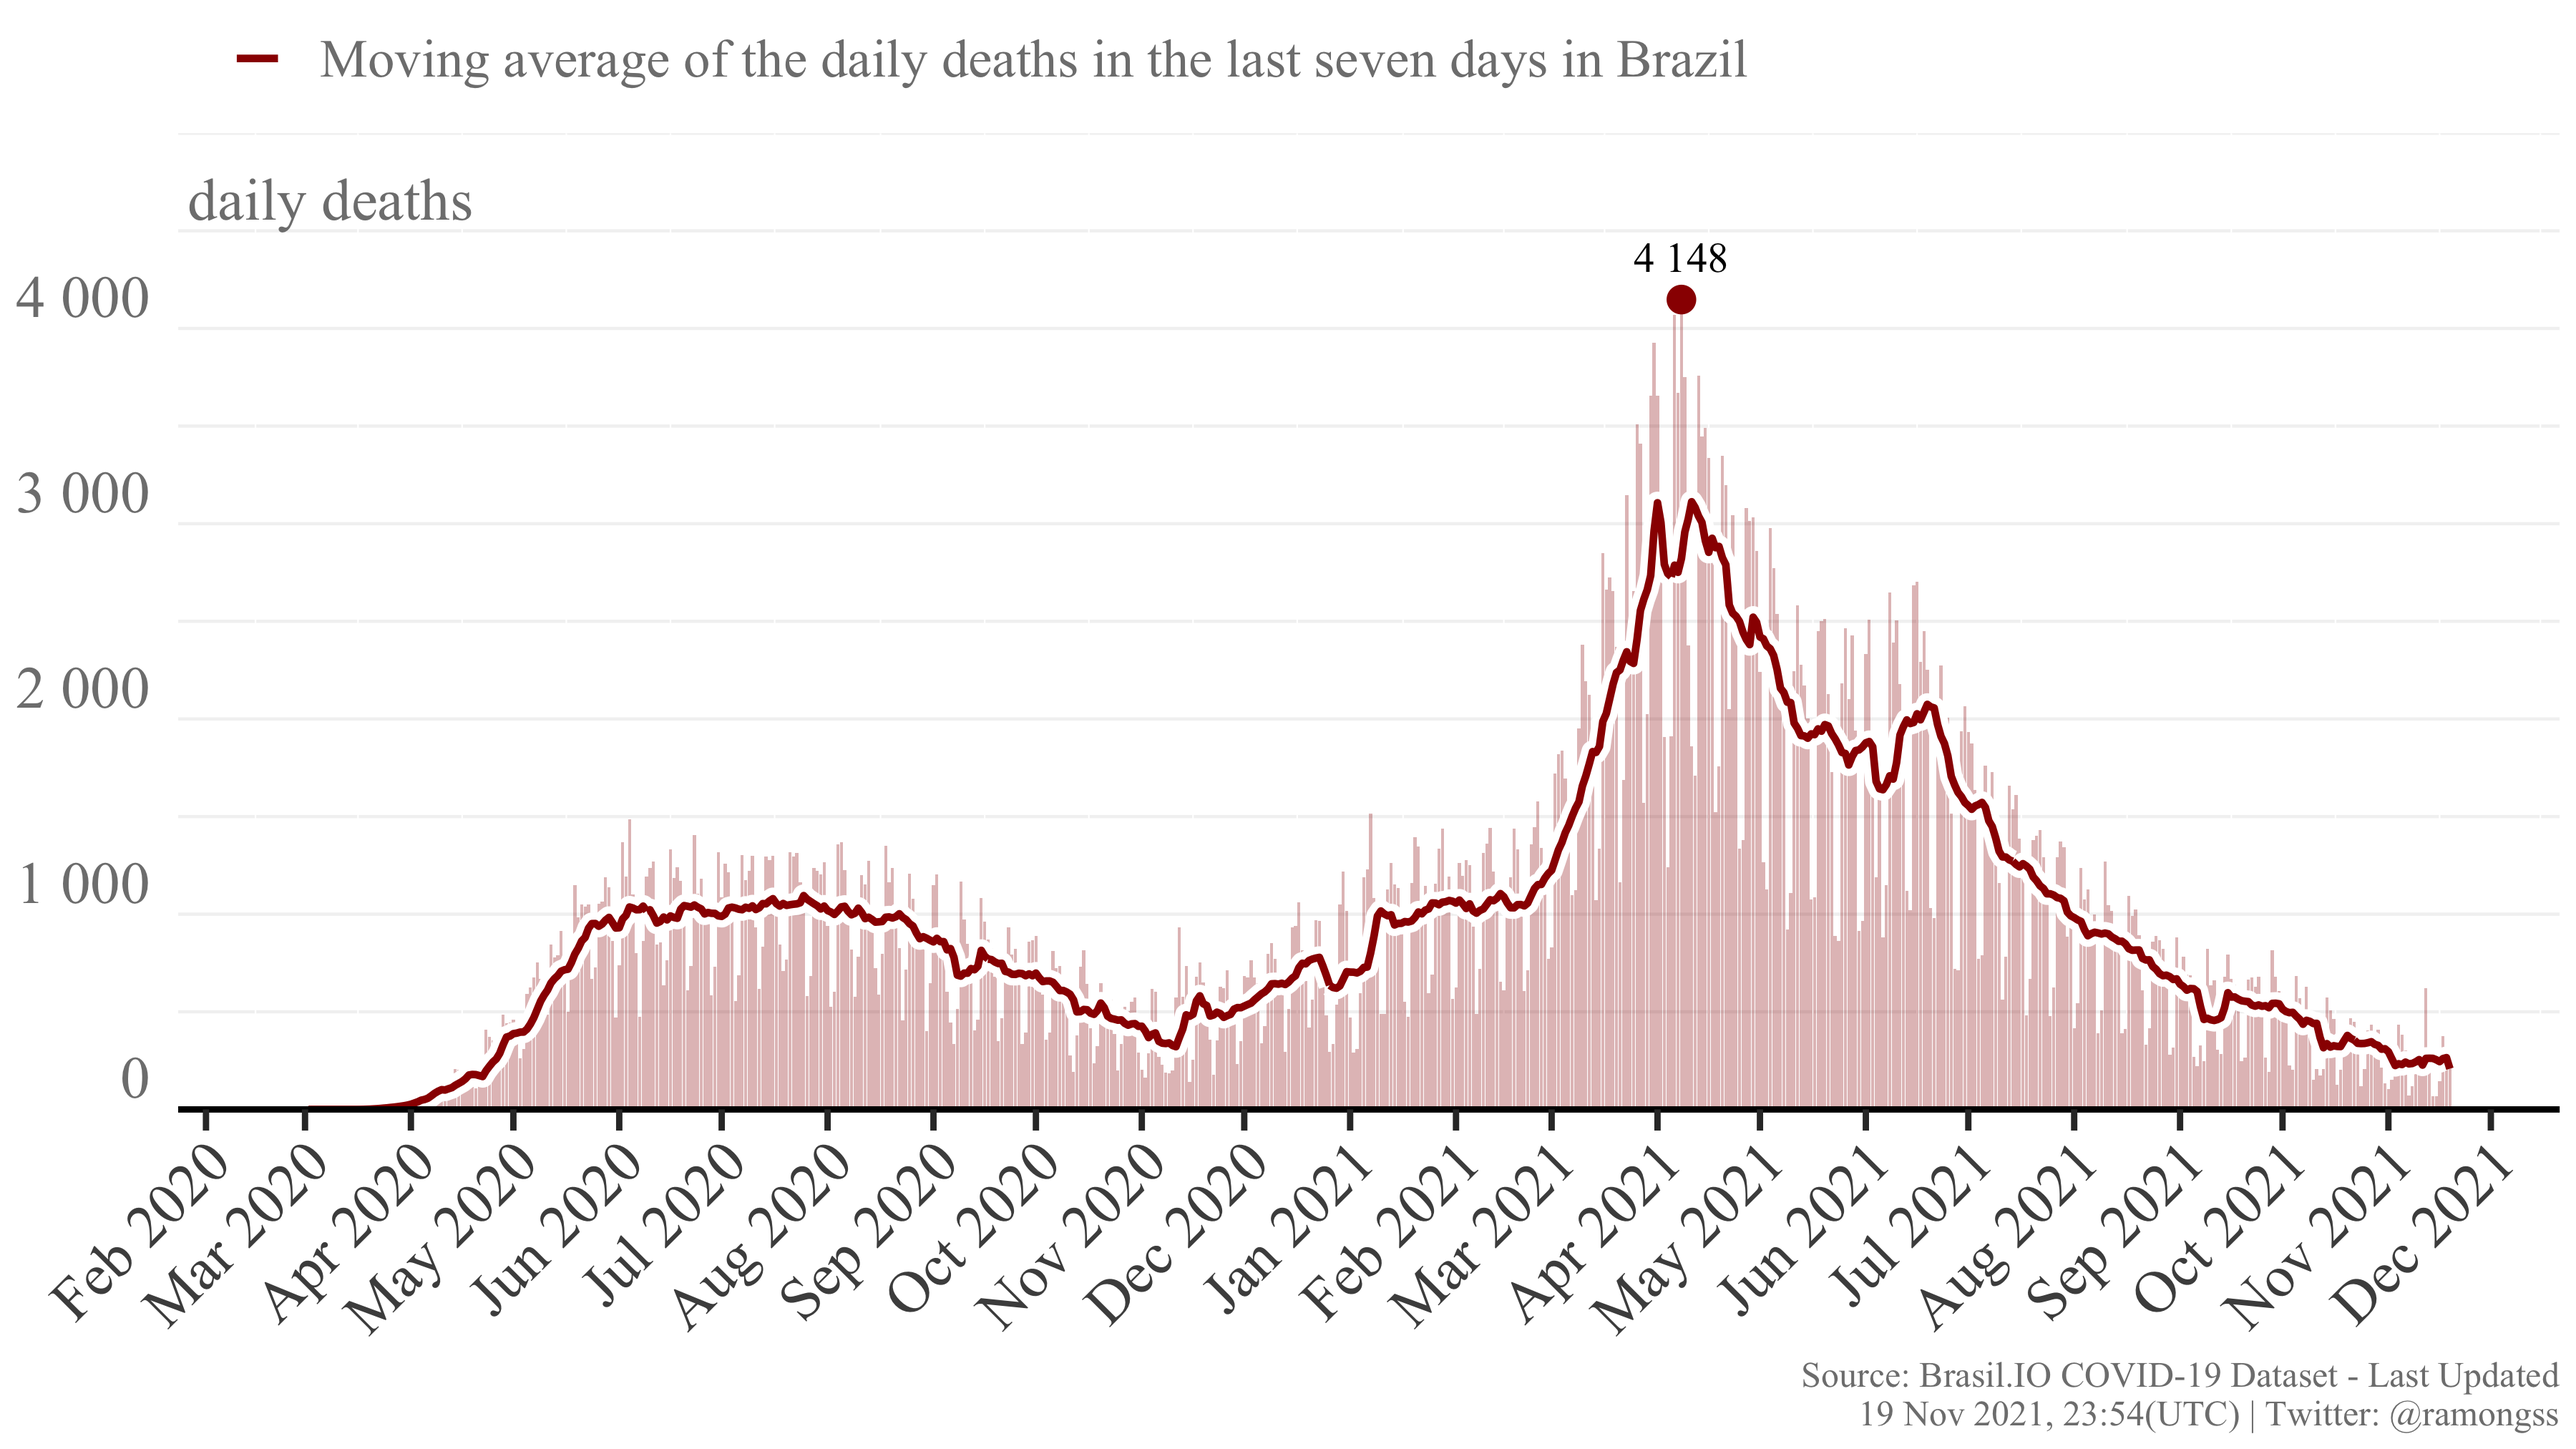
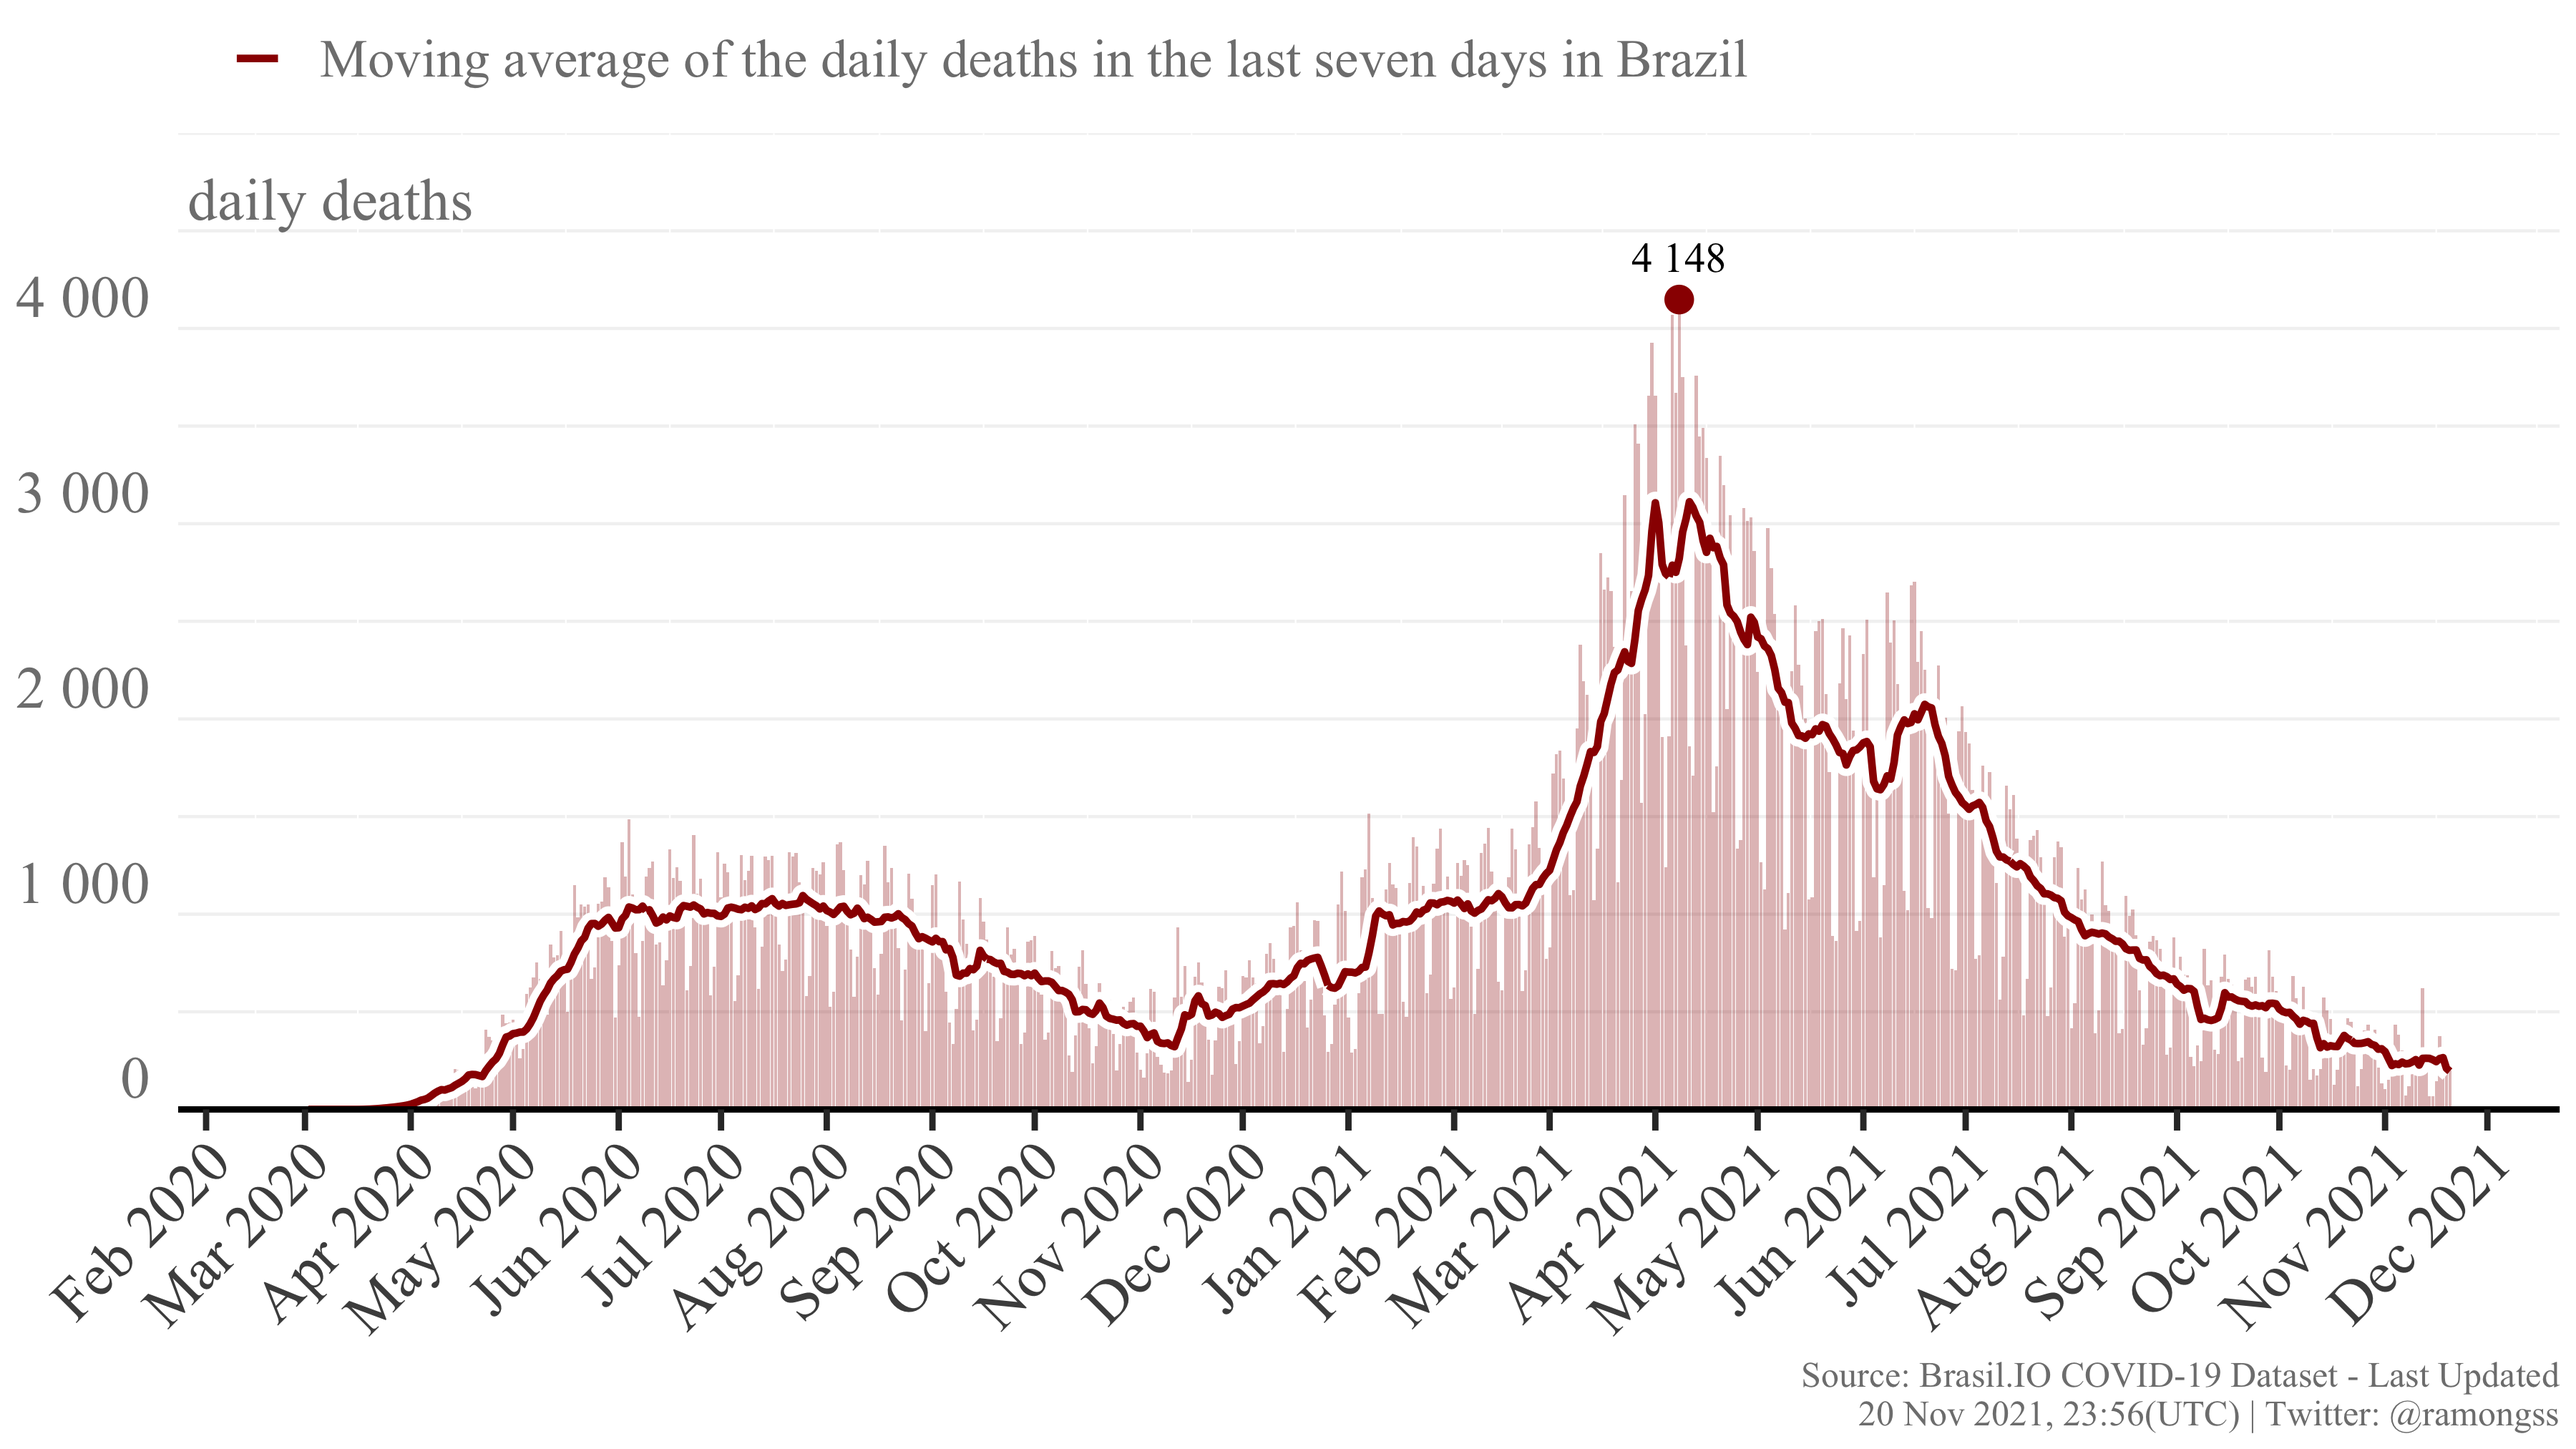
Re-build README.Rmd

diff --git a/README.md b/README.md
@@ -27,8 +27,8 @@ download_brasilio_table <- function(dataset = "covid19", table_name){
 
 ## COVID-19 Confirmed cases
 
-Currently, Brazil has a total of **22,007,573** confirmed cases at **19
-Nov, 2021**, with **11,729** new confirmed cases. The daily maximum
+Currently, Brazil has a total of **22,016,170** confirmed cases at **20
+Nov, 2021**, with **7,953** new confirmed cases. The daily maximum
 incidence was **124,878** confirmed cases at **18 Sep, 2021**. Here
 follows the Figure showing the confirmed case incidence as the bars, and
 the line as the moving average of the last 7 days.
@@ -37,8 +37,8 @@ the line as the moving average of the last 7 days.
 
 ## COVID-19 Deaths
 
-Currently, Brazil has a total of **612,633** deaths at **19 Nov, 2021**,
-with **225** new deaths. The daily maximum deaths incidence was
+Currently, Brazil has a total of **612,847** deaths at **20 Nov, 2021**,
+with **201** new deaths. The daily maximum deaths incidence was
 **4,148** deaths at **08 Apr, 2021**. Here follows the Figure showing
 the deaths incidence as the bars, and the line as the moving average of
 the last 7 days.
@@ -49,4 +49,4 @@ the last 7 days.
 
 This page is daily updated automatically using Github Actions.
 
-*Last update: 19 Nov 2021, 23:54 (UTC).*
+*Last update: 20 Nov 2021, 23:56 (UTC).*
